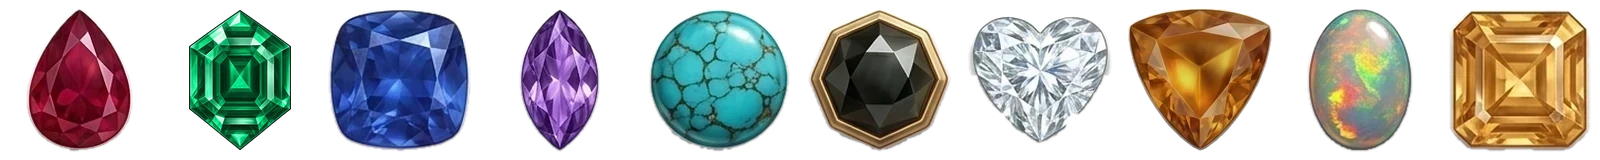
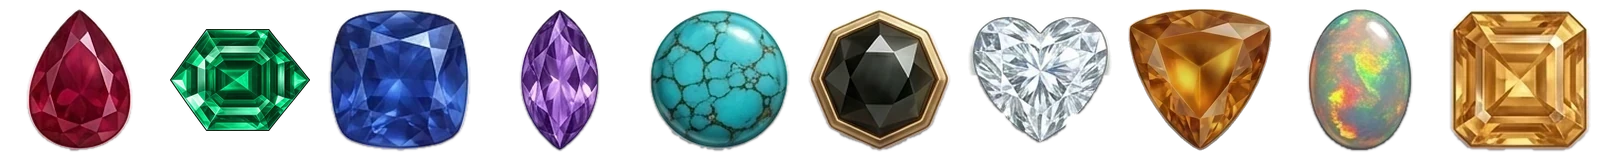
Jewel Atelier w96 (fork/crazygames-pass3-tails@5fbcf10) — тестовая сборка: серьги 2 в HD, изумруд лёжа, объёмное стекло пробирок

Changed region(s): [[0.0938, 0.0625, 0.2188, 0.9375]]

diff --git a/game3-fork1-cg/index.html b/game3-fork1-cg/index.html
@@ -5,7 +5,7 @@
   <meta name="viewport" content="width=device-width, initial-scale=1.0, maximum-scale=1.0, user-scalable=no, viewport-fit=cover">
   <meta name="theme-color" content="#e8b4c2">
   <title>Jewel Atelier</title>
-  <meta name="ws-build" content="w90-3775f6b-20261022">
+  <meta name="ws-build" content="w96-5fbcf10-20261022">
   <!-- Форк game3 «Ювелир Ленд». Отдельная точка входа:
        main.js/board.js/style.css/платформенные адаптеры game3 НЕ подключены —
        ни рекламы, ни энергии, ни магазина, ни сейвов исходной игры.
@@ -91,10 +91,10 @@
     arm(30000);
   })();
   </script>
-  <link rel="preload" href="workshop_assets/gems.webp?v=90" as="image" type="image/webp">
-  <link rel="stylesheet" href="workshop.css?v=90">
-  <link rel="stylesheet" href="workshop_shop.css?v=90">
-  <link rel="stylesheet" href="workshop_case.css?v=90">
+  <link rel="preload" href="workshop_assets/gems.webp?v=96" as="image" type="image/webp">
+  <link rel="stylesheet" href="workshop.css?v=96">
+  <link rel="stylesheet" href="workshop_shop.css?v=96">
+  <link rel="stylesheet" href="workshop_case.css?v=96">
 </head>
 <body>
   <!-- Заставка загрузки и окно «Не удалось загрузить» (стиль и код — в <head>) -->
@@ -361,22 +361,22 @@
   </div>
   <canvas id="confetti-canvas" class="ws-confetti" aria-hidden="true"></canvas>
 
-  <script>window.WS_CONFIG={"target":"crazygames","platform":"web","build":"w90-3775f6b-20261022","payServer":"","vkAppId":"","metrikaId":"","timeouts":{"bridgeMs":8000,"initMs":8000,"dialogMs":60000},"ads":{"preload":true,"banner":{"enabled":true,"phoneOnly":true,"portraitOnly":true,"location":"bottom","layout":"","heightType":"","fallbackHeight":60,"maxFailures":3},"interstitial":{"enabled":true,"minLevels":6,"intervalSec":180,"afterRewardedSec":180,"waitSec":30},"rewarded":{"enabled":true,"waitSec":180,"skipForNoAds":true}},"pay":{"pollSec":30,"orderWaitSec":600},"lang":"auto","skipStart":true,"choiceInline":true};</script>
-  <script src="workshop_i18n.js?v=90"></script>
-  <script src="workshop_sfx.js?v=90"></script>
-  <script src="sound.js?v=90"></script>
-  <script src="workshop_music.js?v=90"></script>
-  <script src="workshop_confetti.js?v=90"></script>
-  <script src="workshop_rules.js?v=90"></script>
-  <script src="workshop_levels.js?v=90"></script>
-  <script src="workshop_board.js?v=90"></script>
-  <script src="workshop_jewelry.js?v=90"></script>
-  <script src="workshop_analytics.js?v=90"></script>
-  <script src="workshop_platform.js?v=90"></script>
-  <script src="workshop_save.js?v=90"></script>
-  <script src="workshop_shop.js?v=90"></script>
-  <script src="workshop_case.js?v=90"></script>
-  <script src="workshop_help.js?v=90"></script>
-  <script src="workshop.js?v=90"></script>
+  <script>window.WS_CONFIG={"target":"crazygames","platform":"web","build":"w96-5fbcf10-20261022","payServer":"","vkAppId":"","metrikaId":"","timeouts":{"bridgeMs":8000,"initMs":8000,"dialogMs":60000},"ads":{"preload":true,"banner":{"enabled":true,"phoneOnly":true,"portraitOnly":true,"location":"bottom","layout":"","heightType":"","fallbackHeight":60,"maxFailures":3},"interstitial":{"enabled":true,"minLevels":6,"intervalSec":180,"afterRewardedSec":180,"waitSec":30},"rewarded":{"enabled":true,"waitSec":180,"skipForNoAds":true}},"pay":{"pollSec":30,"orderWaitSec":600},"lang":"auto","skipStart":true,"choiceInline":true};</script>
+  <script src="workshop_i18n.js?v=96"></script>
+  <script src="workshop_sfx.js?v=96"></script>
+  <script src="sound.js?v=96"></script>
+  <script src="workshop_music.js?v=96"></script>
+  <script src="workshop_confetti.js?v=96"></script>
+  <script src="workshop_rules.js?v=96"></script>
+  <script src="workshop_levels.js?v=96"></script>
+  <script src="workshop_board.js?v=96"></script>
+  <script src="workshop_jewelry.js?v=96"></script>
+  <script src="workshop_analytics.js?v=96"></script>
+  <script src="workshop_platform.js?v=96"></script>
+  <script src="workshop_save.js?v=96"></script>
+  <script src="workshop_shop.js?v=96"></script>
+  <script src="workshop_case.js?v=96"></script>
+  <script src="workshop_help.js?v=96"></script>
+  <script src="workshop.js?v=96"></script>
 </body>
 </html>

diff --git a/game3-fork1-cg/workshop_board.js b/game3-fork1-cg/workshop_board.js
@@ -550,6 +550,21 @@ const WsBoard = (() => {
     body.addColorStop(1, 'rgba(200,160,200,0.42)');
     ctx.fillStyle = body;
     ctx.fill();
+    // объём (ТЗ CrazyGames, раздел 9): к дну стекло толще и темнее, на дне — светлая линза
+    ctx.save();
+    tubePath(cx, s.rimY, s.baseY, tw);
+    ctx.closePath();
+    ctx.clip();
+    const deep = ctx.createLinearGradient(0, bot - tw * 1.3, 0, bot);
+    deep.addColorStop(0, 'rgba(120,70,120,0)');
+    deep.addColorStop(1, 'rgba(120,70,120,0.2)');
+    ctx.fillStyle = deep;
+    ctx.fillRect(cx - tw / 2, bot - tw * 1.3, tw, tw * 1.3);
+    ctx.beginPath();
+    ctx.ellipse(cx, bot - tw * 0.13, tw * 0.3, tw * 0.07, 0, 0, Math.PI * 2);
+    ctx.fillStyle = `rgba(${tube.rim},0.42)`;
+    ctx.fill();
+    ctx.restore();
     if (fl) {
       // готовая четвёрка: золотое сияние изнутри
       const kk = Math.min(1, (t - fl.t0) / fl.dur);
@@ -601,10 +616,27 @@ const WsBoard = (() => {
     ctx.fillStyle = 'rgba(255,255,255,0.4)';
     roundRect(ctx, cx + tw * 0.27, s.rimY + tw * 0.35, tw * 0.05, (bot - s.rimY) * 0.5, tw * 0.025);
     ctx.fill();
-    // кромка: толстое кольцо
+    // тонкий блик вдоль правого края и по закруглению дна — стекло читается толстым
+    ctx.lineCap = 'round';
+    ctx.lineWidth = Math.max(1, tw * 0.022);
+    ctx.strokeStyle = 'rgba(255,255,255,0.6)';
     ctx.beginPath();
-    ctx.ellipse(cx, s.rimY - LIP * tw * 0.4, tw * 0.55, tw * 0.13, 0, 0, Math.PI * 2);
-    ctx.fillStyle = 'rgba(190,150,185,0.3)';
+    ctx.moveTo(cx + tw * 0.41, s.rimY + tw * 0.25);
+    ctx.lineTo(cx + tw * 0.41, bot - tw * 0.62);
+    ctx.stroke();
+    ctx.beginPath();
+    ctx.arc(cx, bot - tw / 2, tw * 0.4, Math.PI * 0.62, Math.PI * 0.9);
+    ctx.strokeStyle = 'rgba(255,255,255,0.75)';
+    ctx.stroke();
+    ctx.lineCap = 'butt';
+    // кромка: толстое кольцо с объёмом — светлый верх, тень снизу, искра блика
+    const ry = s.rimY - LIP * tw * 0.4;
+    ctx.beginPath();
+    ctx.ellipse(cx, ry, tw * 0.55, tw * 0.13, 0, 0, Math.PI * 2);
+    const rimFill = ctx.createLinearGradient(0, ry - tw * 0.13, 0, ry + tw * 0.13);
+    rimFill.addColorStop(0, 'rgba(255,255,255,0.5)');
+    rimFill.addColorStop(1, 'rgba(150,100,145,0.35)');
+    ctx.fillStyle = rimFill;
     ctx.fill();
     ctx.lineWidth = Math.max(1.5, tw * 0.09);
     ctx.strokeStyle = 'rgba(140,96,132,0.8)';
@@ -612,6 +644,10 @@ const WsBoard = (() => {
     ctx.lineWidth = Math.max(1, tw * 0.055);
     ctx.strokeStyle = k ? '#fff2c4' : `rgba(${tube.rim},0.95)`;
     ctx.stroke();
+    ctx.beginPath();
+    ctx.ellipse(cx - tw * 0.3, ry + tw * 0.085, tw * 0.09, tw * 0.03, -0.25, 0, Math.PI * 2);
+    ctx.fillStyle = 'rgba(255,255,255,0.9)';
+    ctx.fill();
     if (v === locked || (unlockAt && unlockAt.v === v)) drawLock(v, cx, t);
     ctx.restore();
   }
